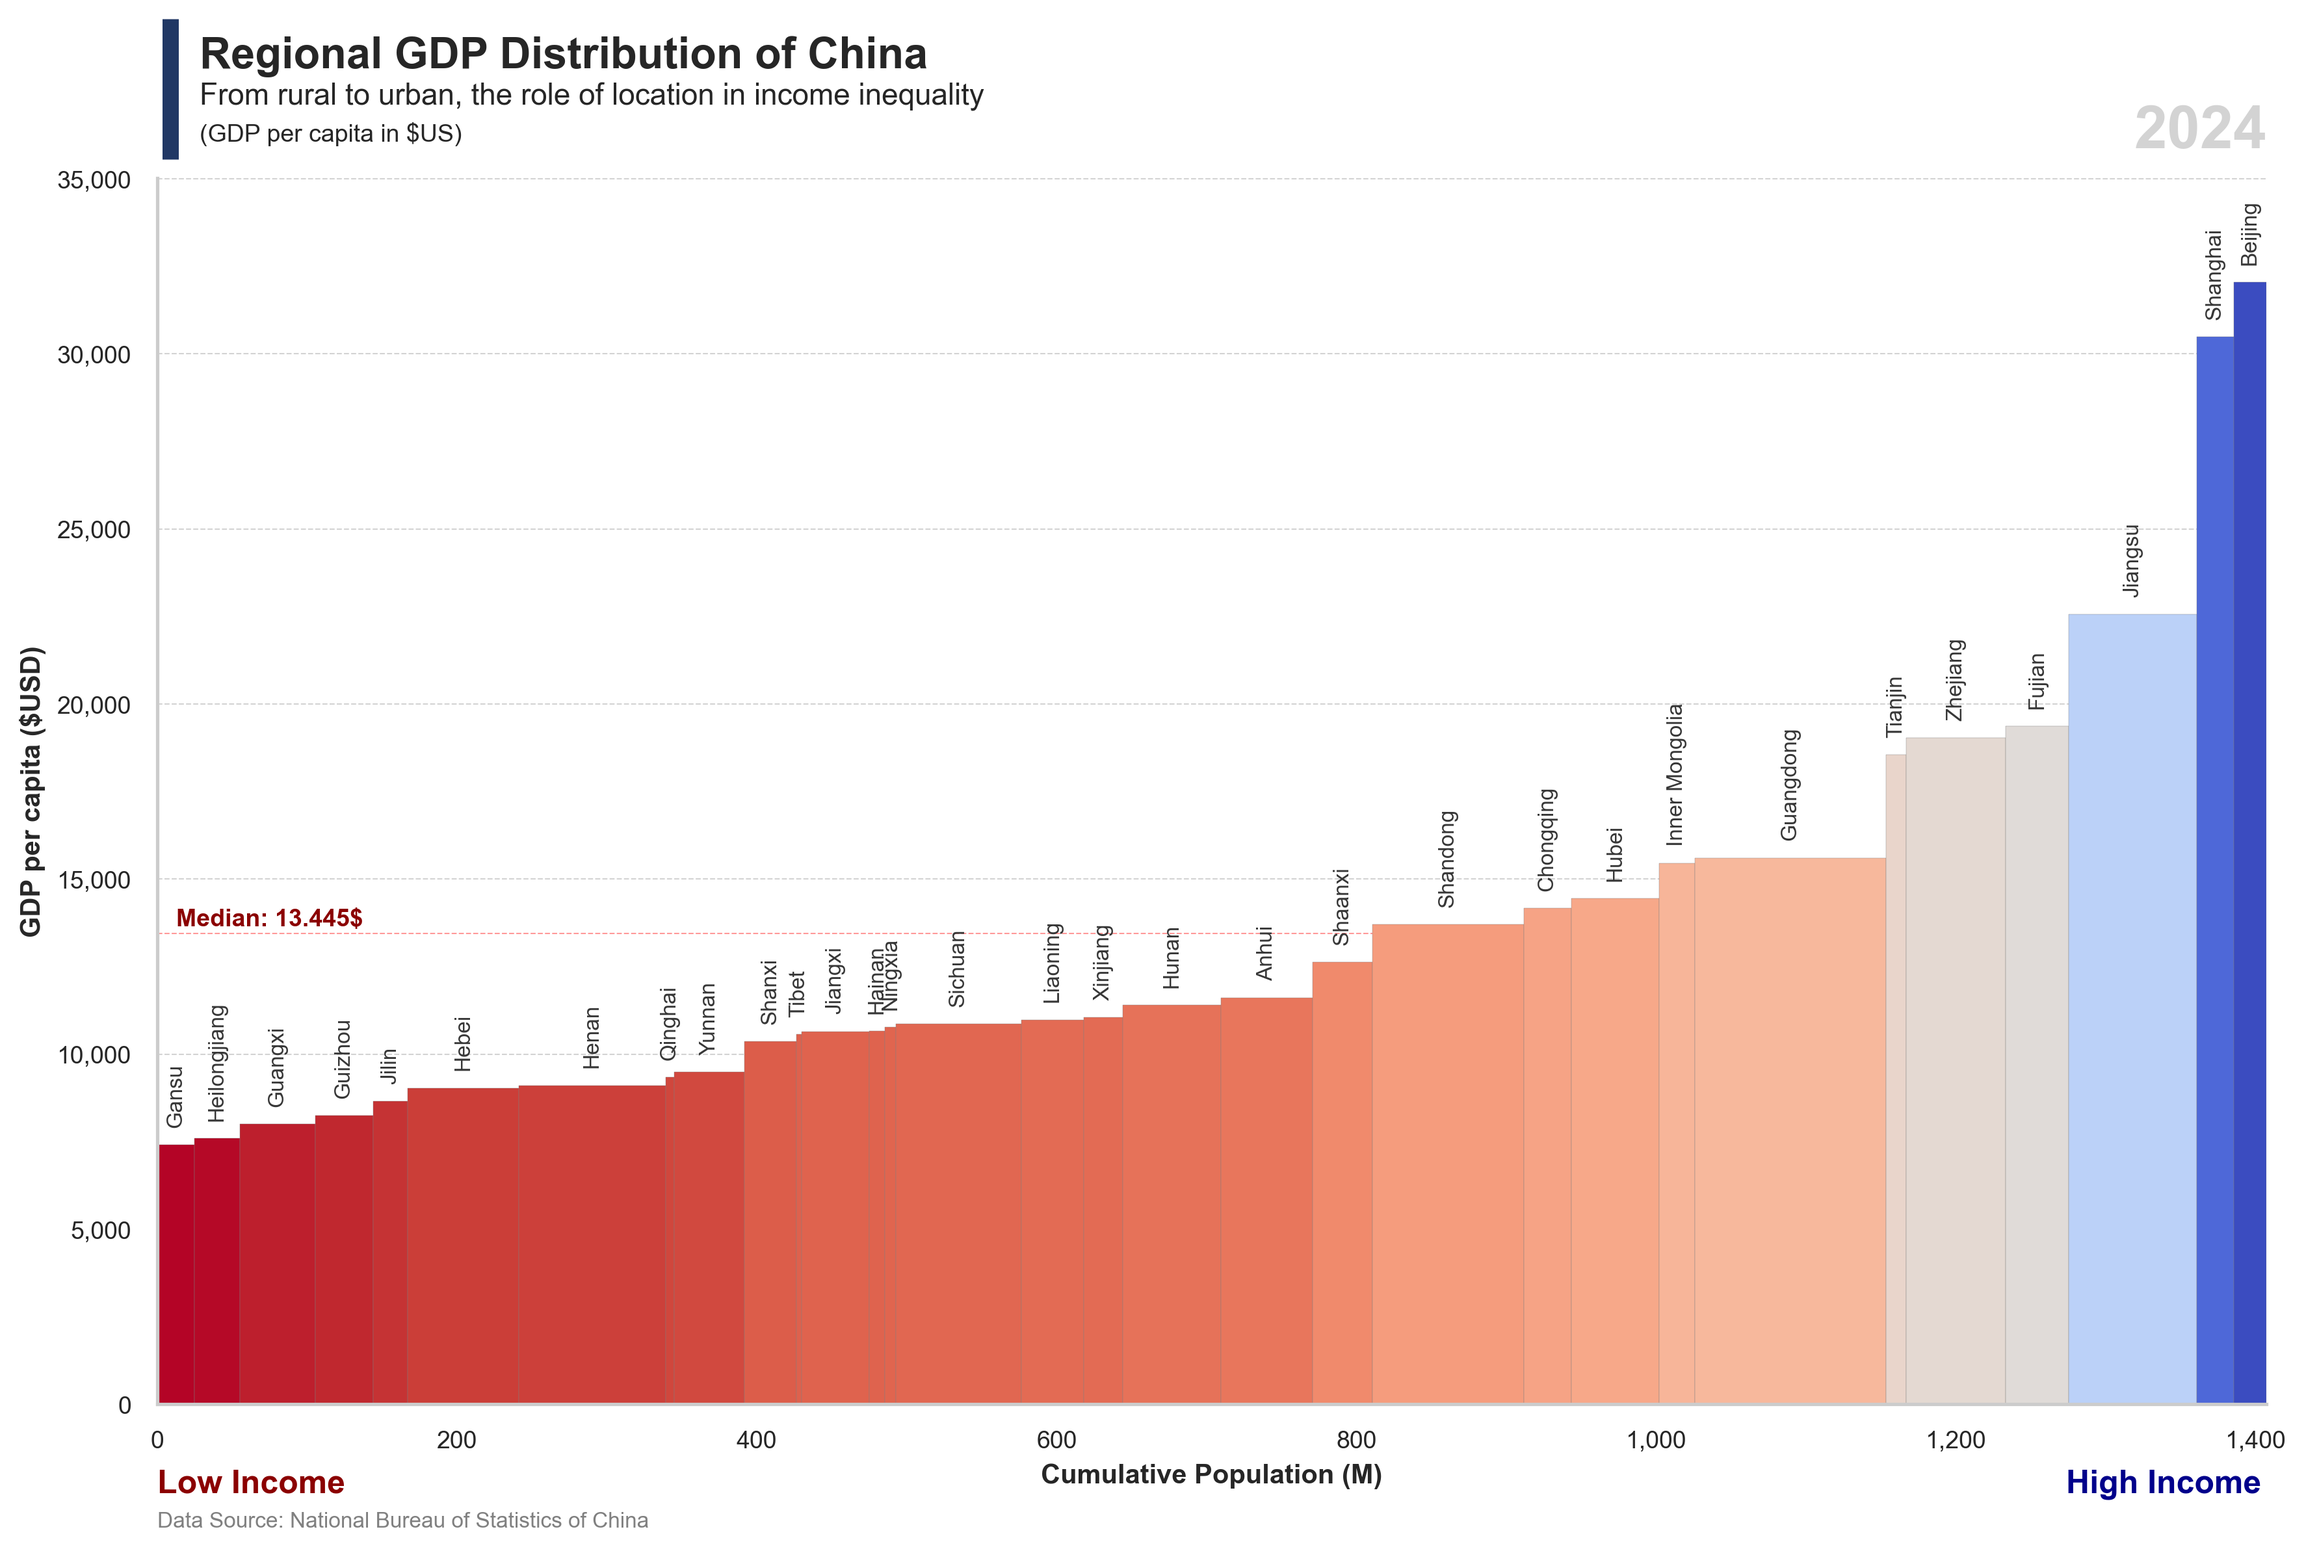
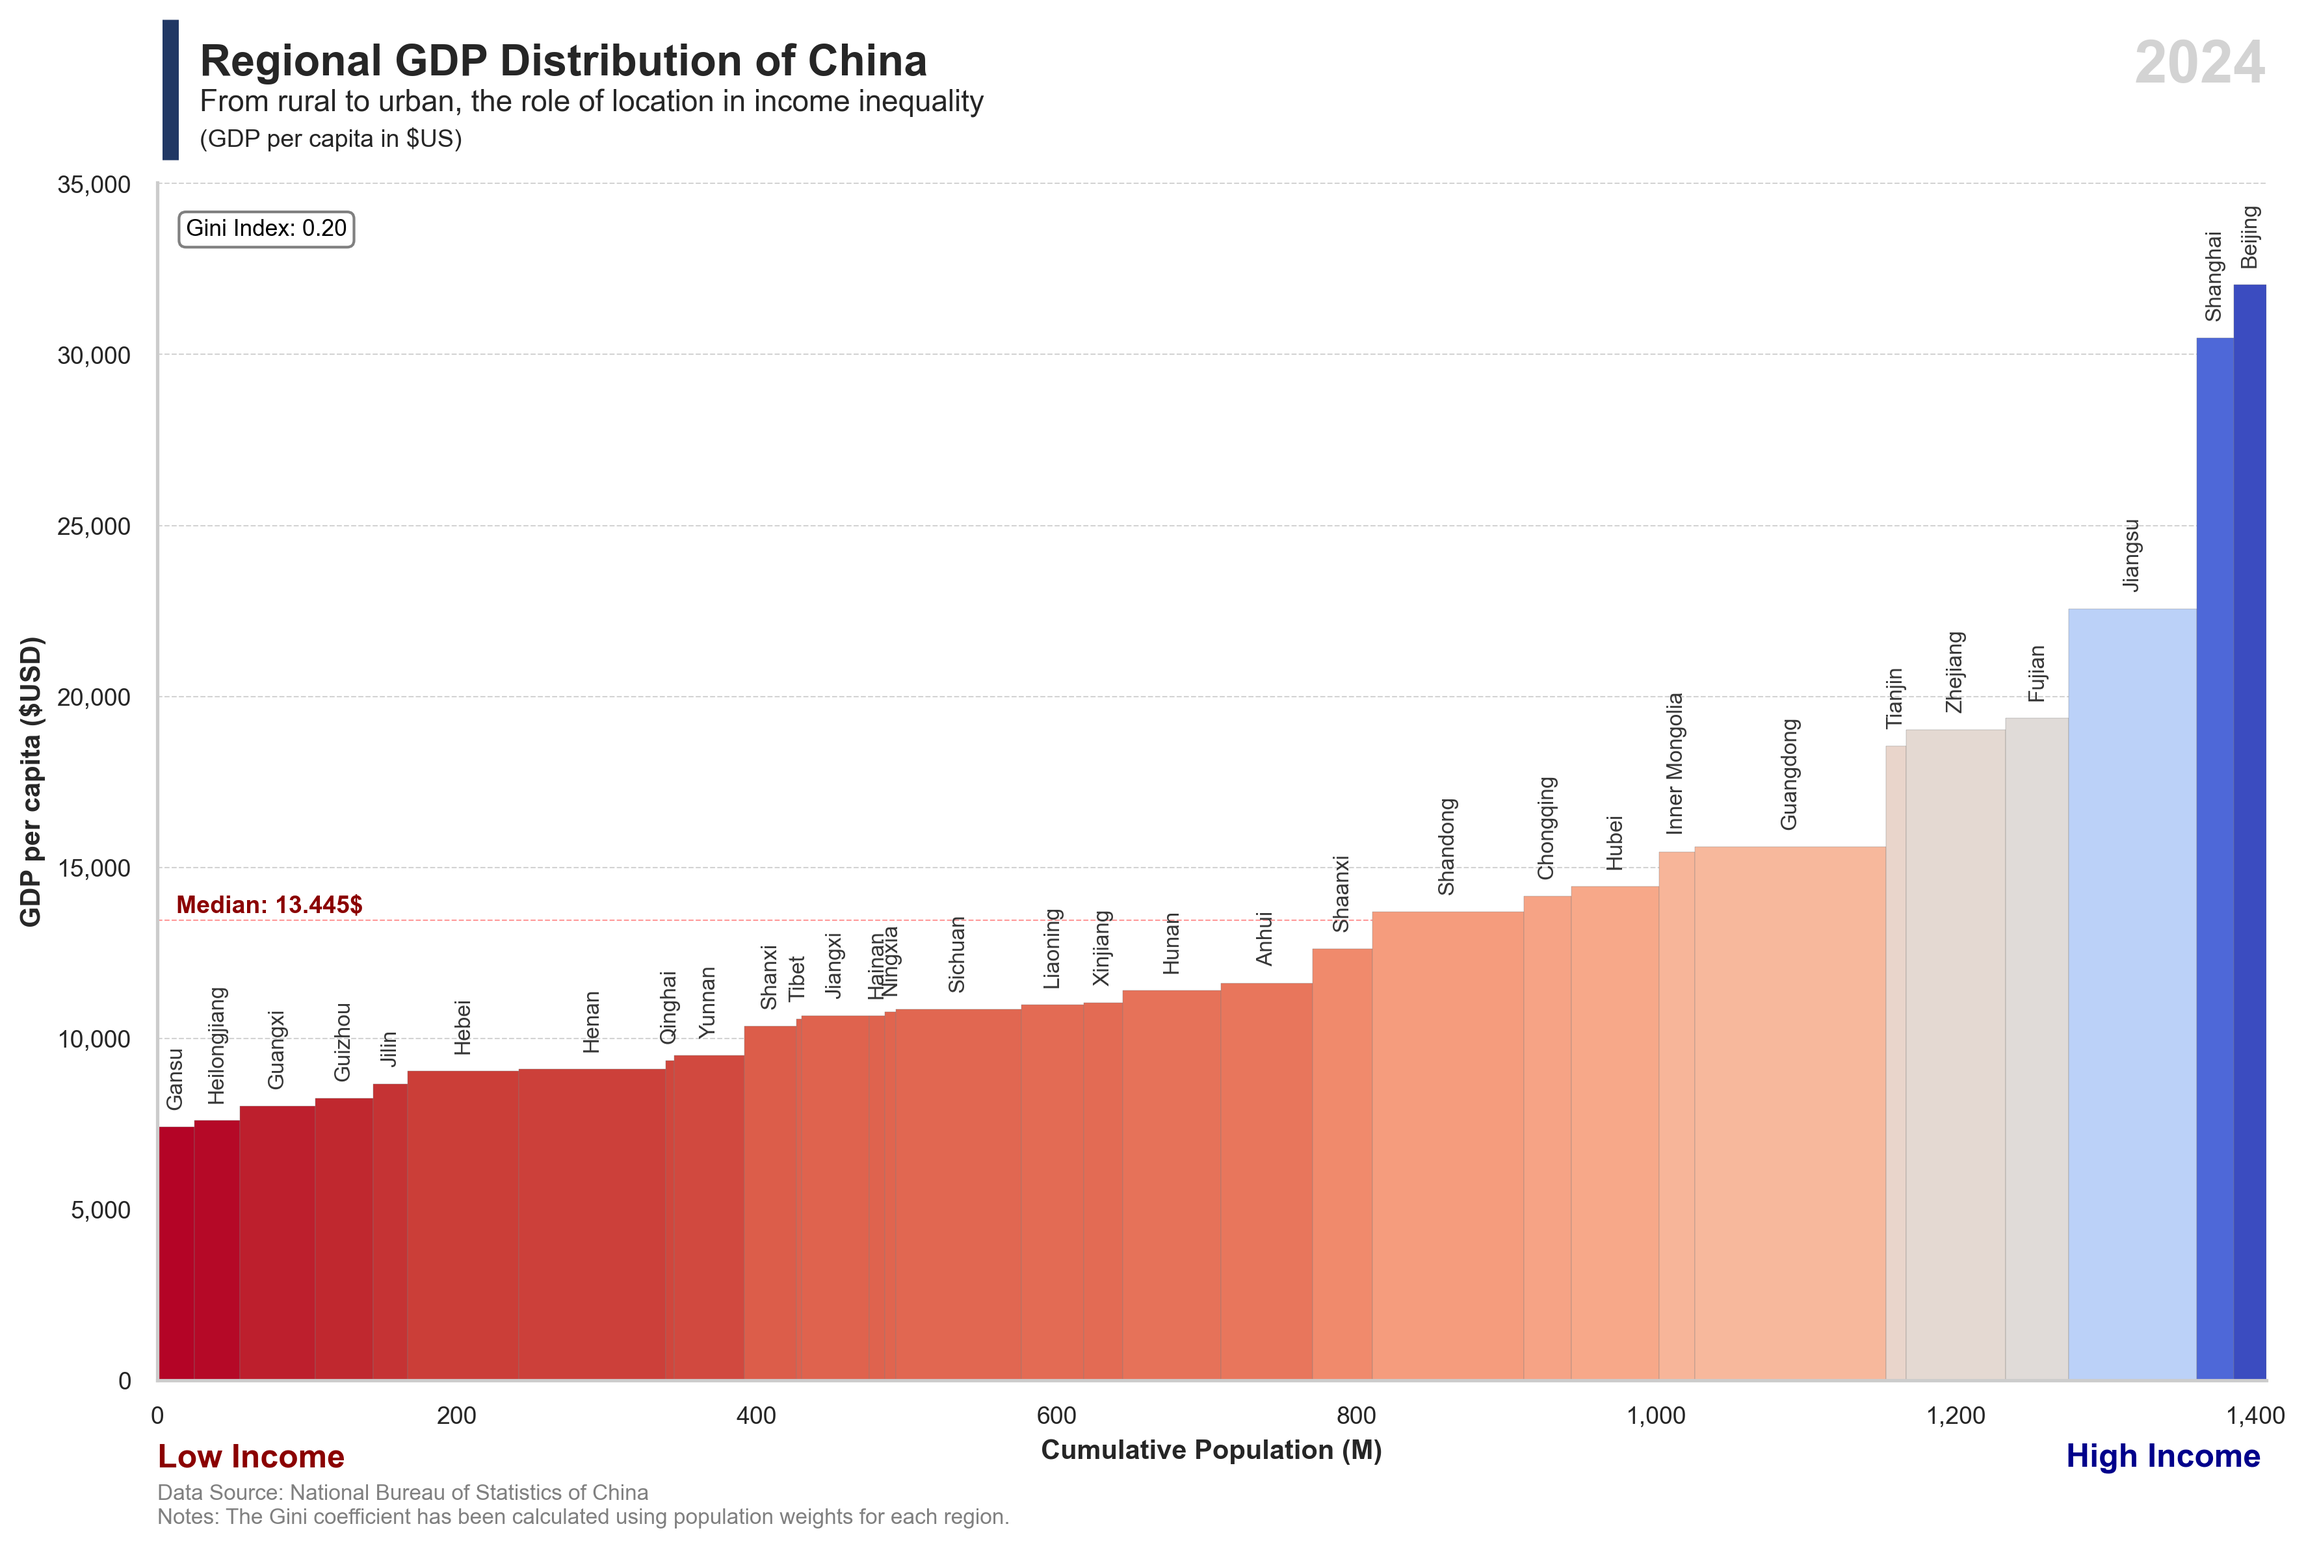
china spain and usa region

diff --git a/Python/Finance/Economy/FIG_INE_Region_Distribution_Spain.py b/Python/Finance/Economy/FIG_INE_Region_Distribution_Spain.py
@@ -7,22 +7,41 @@ import matplotlib.pyplot as plt
 import matplotlib.ticker as ticker
 import os
 
-# Data (China) 
+# Data (Spain) 
 # =====================================================================
 # Read wikipedia data
-url = "https://en.wikipedia.org/wiki/List_of_Chinese_provincial-level_divisions_by_GDP_per_capita"
+url = "https://es.wikipedia.org/wiki/Anexo:Provincias_de_Espa%C3%B1a_por_PIB"
 tables = pd.read_html(url)
-df = tables[2]
-df.columns = ['region', 'gdpc_cny', 'gdpc_usd', 'share', 'gdp_cny', 'population', 'delete']
-df = df.iloc[0:].reset_index(drop=True)
 
-# Data Manipulation
+# population
+dfp = tables[2]
+dfp.columns = ['number', 'region', '2', '3', '4', '5', '6', '7', 'population', '9']
+dfp = dfp.iloc[1:].reset_index(drop=True)
+dfp =  dfp[['region', 'population']]
+dfp = dfp.iloc[:-1]
+dfp['population'] = (
+    dfp['population']
+    .astype(str)
+    .str.replace('.', '', regex=False)
+    .str.replace(',', '.', regex=False)
+)
+dfp['population'] = pd.to_numeric(dfp['population'], errors='coerce') / 1000000
+
+# gdp capita
+dfg = tables[3]
+dfg.columns = ['number', 'region', '2', '3', '4', '5', '6', '7', 'gdpc', '9']
+dfg = dfg.iloc[1:].reset_index(drop=True)
+dfg =  dfg[['region', 'gdpc']]
+dfg = dfg.iloc[:-1]
+dfg['gdpc'] = pd.to_numeric(dfg['gdpc'], errors='coerce') * 1000
+
+# Data (Manipulation) 
 # =====================================================================
+# Merging dataframes
+df = pd.merge(dfp, dfg, on='region', how='left')
+
 # Select columns and solve names
-df =  df[['region', 'gdpc_usd', 'population']]
-df['gdpc'] = df['gdpc_usd']
-df['population'] = df['population'] / 1000
-df['region'] = df['region'].str.replace(r'\[\d+\]', '', regex=True)
+df =  df[['region', 'gdpc', 'population']]
 
 # Order dataframe
 df = df.sort_values(by=['gdpc'])
@@ -63,54 +82,57 @@ bars = plt.bar(df['left'], df['gdpc'], width=df['population'],
 
 # Title
 fig.add_artist(plt.Line2D([0.08, 0.08], [0.90, 0.99], linewidth=6, color='#203764', solid_capstyle='butt'))
-ax.text(0.02, 1.09, f'Regional GDP Distribution of China', fontsize=16, fontweight='bold', ha='left', transform=plt.gca().transAxes)
-ax.text(0.02, 1.06, f'From rural to urban, the role of location in income inequality', fontsize=11, color='#262626', ha='left', transform=plt.gca().transAxes)
-ax.text(0.02, 1.03, f'(GDP per capita in $US)', fontsize=9, color='#262626', ha='left', transform=plt.gca().transAxes)
+ax.text(0.02, 1.09, f'Distribución regional del PIB en España ', fontsize=16, fontweight='bold', ha='left', transform=plt.gca().transAxes)
+ax.text(0.02, 1.06, f'De lo rural a lo urbano: la influencia de la localización en la transformación económica', fontsize=11, color='#262626', ha='left', transform=plt.gca().transAxes)
+ax.text(0.02, 1.03, f'(PIB Capita en euros €)', fontsize=9, color='#262626', ha='left', transform=plt.gca().transAxes)
 
 # Configuration grid and labels
 ax.set_xlim(0, df['population_cum'].max()) 
-ax.set_ylim(0, df['gdpc'].max() * 1.093)
-ax.set_xlabel('Cumulative Population (M)', fontsize=10, fontweight='bold')
-ax.set_ylabel('GDP per capita ($USD)', fontsize=10, fontweight='bold')
+ax.set_ylim(0, 45000)
+ax.set_xlabel('Población Acumulada (M)', fontsize=10, fontweight='bold')
+ax.set_ylabel('PIB Capita €', fontsize=10, fontweight='bold')
 ax.grid(axis='x')
 ax.grid(axis='y', linestyle='--', linewidth=0.5, color='lightgray')
 ax.tick_params(axis='x', labelsize=9)
-ax.tick_params(axis='y', labelsize=9) 
+ax.tick_params(axis='y', labelsize=9)
+ax.set_xticks([0 + (df['population_cum'].max() - 0) * i / 5 for i in range(6)]) 
 ax.yaxis.set_major_formatter(ticker.FuncFormatter(lambda x, _: f'{int(x):,}'))
 ax.xaxis.set_major_formatter(ticker.FuncFormatter(lambda x, _: f'{int(x):,}'))
 ax.spines['top'].set_visible(False)
 ax.spines['right'].set_visible(False)
-ax.axhline(y=13445, color='red', linestyle='--', linewidth=0.5, zorder=0, alpha=0.4)
-ax.text(75, 13445 + 100, "Median: 13.445$", color='darkred', fontweight='bold', fontsize=9, ha='center', va='bottom', zorder=2)
+ax.axhline(y=28333, color='red', linestyle='--', linewidth=0.5, zorder=0, alpha=0.4)
+ax.text(3, 28333 + 100, "Promedio: 28.333$", color='darkred', fontweight='bold', fontsize=9, ha='center', va='bottom', zorder=2)
 
-# Add text each region
+# Add text each region except Ávila and Segovia
 for i, bar in enumerate(bars):
     region_name = df['region'].iloc[i]
-    x = bar.get_x() + bar.get_width() / 2
-    y = bar.get_height()
     
-    ax.text(
-        x, y + 500,
-        region_name,
-        ha='center', va='bottom', color='#363636', fontsize=8, rotation=90,
-
-    )
+    # Excluir las regiones de Ávila y Segovia
+    if region_name not in ['Ávila', 'Ceuta', 'Segovia', 'Cuenca', 'Teruel', 'Soria']:
+        x = bar.get_x() + bar.get_width() / 2
+        y = bar.get_height()
+        
+        ax.text(
+            x, y + 500,
+            region_name,
+            ha='center', va='bottom', color='#363636', fontsize=7, rotation=90,
+        )
 
 # Add Year label 
-ax.text(1, 1.12, f'2024',
+ax.text(1, 1.12, f'2022',
              transform=plt.gca().transAxes,
              fontsize=22, ha='right', va='top',
              fontweight='bold', color='#D3D3D3')
     
 # Add Data Source
-ax.text(0, -0.1, 'Data Source: National Bureau of Statistics of China', 
+ax.text(0, -0.1, 'Fuente: Instituto Nacional Estadística (INE)', 
             transform=plt.gca().transAxes, 
             fontsize=8, 
             color='gray')
 
 # Show GINI Index
 ax.text(
-    0.09, 0.97, f"Gini Index: {gini_index:.2f}", 
+    0.09, 0.97, f"Índice Gini: {gini_index:.2f}", 
     transform=ax.transAxes,
     fontsize=8.5,
     color='black',
@@ -120,16 +142,16 @@ ax.text(
 )
 
 # Add Gini Index
-ax.text(0, -0.12, 'Notes: The Gini coefficient has been calculated using population weights for each region.', 
+ax.text(0, -0.12, 'Notes: El coeficiente de Gini ha sido calculado utilizando los pesos de población para cada província.', 
             transform=plt.gca().transAxes, 
             fontsize=8, 
             color='gray')
 
 # Add label "poorest" and "richest"
-ax.text(0, -0.065, 'Low Income',
+ax.text(0, -0.065, 'Renta Baja',
              transform=ax.transAxes,
              fontsize=12, fontweight='bold', color='darkred', ha='left', va='center')
-ax.text(0.905, -0.065, 'High Income',
+ax.text(0.915, -0.065, 'Renta Alta',
              transform=ax.transAxes,
              fontsize=12, fontweight='bold', color='darkblue', va='center')
 
@@ -138,8 +160,9 @@ plt.tight_layout()
 
 # Save it...
 download_folder = os.path.join(os.path.expanduser("~"), "Downloads")
-filename = os.path.join(download_folder, f"FIG_BUREAU_Region_Distribution_China.png")
+filename = os.path.join(download_folder, f"FIG_INE_Region_Distribution_Spain.png")
 plt.savefig(filename, dpi=300, bbox_inches='tight')
 
 # Show :)
 plt.show()
+

diff --git a/Python/Finance/Economy/FIG_BUREAU_Region_Distribution_USA.py b/Python/Finance/Economy/FIG_BUREAU_Region_Distribution_USA.py
@@ -5,24 +5,27 @@ import numpy as np
 import seaborn as sns
 import matplotlib.pyplot as plt
 import matplotlib.ticker as ticker
+import matplotlib.patches as patches
 import os
 
-# Data (China) 
+# Data (USA) 
 # =====================================================================
 # Read wikipedia data
-url = "https://en.wikipedia.org/wiki/List_of_Chinese_provincial-level_divisions_by_GDP_per_capita"
+url = "https://en.wikipedia.org/wiki/List_of_U.S._states_and_territories_by_GDP"
 tables = pd.read_html(url)
-df = tables[2]
-df.columns = ['region', 'gdpc_cny', 'gdpc_usd', 'share', 'gdp_cny', 'population', 'delete']
-df = df.iloc[0:].reset_index(drop=True)
 
-# Data Manipulation
+# population
+df = tables[0]
+df.columns = ['region', '2', 'gdp', '4', '5', '6', '7', 'gdpc', '9', '10']
+df = df.iloc[0:].reset_index(drop=True)
+df = df.iloc[:-1]
+df['gdpc'] = df['gdpc'].replace({'\$': '', ',': ''}, regex=True).astype(float)
+df['population'] = df['gdp'] / df['gdpc']
+
+# Data (Manipulation) 
 # =====================================================================
 # Select columns and solve names
-df =  df[['region', 'gdpc_usd', 'population']]
-df['gdpc'] = df['gdpc_usd']
-df['population'] = df['population'] / 1000
-df['region'] = df['region'].str.replace(r'\[\d+\]', '', regex=True)
+df =  df[['region', 'gdpc', 'population']]
 
 # Order dataframe
 df = df.sort_values(by=['gdpc'])
@@ -54,7 +57,7 @@ sns.set(style="whitegrid")
 fig, ax = plt.subplots(figsize=(12, 8))
 
 # Create a palette
-norm = plt.Normalize(df["gdpc"].min(), df["gdpc"].max())
+norm = plt.Normalize(df["gdpc"].min(), 120000)
 colors = plt.cm.coolwarm_r(norm(df["gdpc"]))
 
 # Create a Matplotlib plot
@@ -63,38 +66,57 @@ bars = plt.bar(df['left'], df['gdpc'], width=df['population'],
 
 # Title
 fig.add_artist(plt.Line2D([0.08, 0.08], [0.90, 0.99], linewidth=6, color='#203764', solid_capstyle='butt'))
-ax.text(0.02, 1.09, f'Regional GDP Distribution of China', fontsize=16, fontweight='bold', ha='left', transform=plt.gca().transAxes)
+ax.text(0.02, 1.09, f'Regional GDP Distribution of USA', fontsize=16, fontweight='bold', ha='left', transform=plt.gca().transAxes)
 ax.text(0.02, 1.06, f'From rural to urban, the role of location in income inequality', fontsize=11, color='#262626', ha='left', transform=plt.gca().transAxes)
 ax.text(0.02, 1.03, f'(GDP per capita in $US)', fontsize=9, color='#262626', ha='left', transform=plt.gca().transAxes)
 
 # Configuration grid and labels
 ax.set_xlim(0, df['population_cum'].max()) 
-ax.set_ylim(0, df['gdpc'].max() * 1.093)
+ax.set_ylim(0, 160000)
 ax.set_xlabel('Cumulative Population (M)', fontsize=10, fontweight='bold')
 ax.set_ylabel('GDP per capita ($USD)', fontsize=10, fontweight='bold')
 ax.grid(axis='x')
 ax.grid(axis='y', linestyle='--', linewidth=0.5, color='lightgray')
 ax.tick_params(axis='x', labelsize=9)
-ax.tick_params(axis='y', labelsize=9) 
+ax.tick_params(axis='y', labelsize=9)
+xticks_values = [0 + (df['population_cum'].max() - 0) * i / 5 for i in range(6)]
+xticks_rounded = [int(np.round(value, -1)) for value in xticks_values]
+ax.set_xticks(xticks_rounded)
 ax.yaxis.set_major_formatter(ticker.FuncFormatter(lambda x, _: f'{int(x):,}'))
 ax.xaxis.set_major_formatter(ticker.FuncFormatter(lambda x, _: f'{int(x):,}'))
 ax.spines['top'].set_visible(False)
 ax.spines['right'].set_visible(False)
-ax.axhline(y=13445, color='red', linestyle='--', linewidth=0.5, zorder=0, alpha=0.4)
-ax.text(75, 13445 + 100, "Median: 13.445$", color='darkred', fontweight='bold', fontsize=9, ha='center', va='bottom', zorder=2)
+ax.axhline(y=85810, color='red', linestyle='--', linewidth=0.5, zorder=0, alpha=0.4)
+ax.text(20, 85810 + 100, "Median: 85.810$", color='darkred', fontweight='bold', fontsize=9, ha='center', va='bottom', zorder=2)
 
-# Add text each region
+# Y Axis modify the outlier value
+def format_func(x):
+    return f"{x:,.0f}"
+labels = [item.get_text() for item in ax.get_yticklabels()]
+labels[-1] = format_func(260000)
+ax.set_yticklabels(labels)
+
+# Lines and area to separate outliers
+area100 = 148000
+area99 = 146000
+ax.axhline(y=area100, color='black', linestyle='--', linewidth=0.5, zorder=4)
+ax.axhline(y=area99, color='black', linestyle='--', linewidth=0.5, zorder=4)
+ax.add_patch(patches.Rectangle((0, area99), 1000, area100-area99, linewidth=0, edgecolor='none', facecolor='white', zorder=3))
+
+# Add text each region except Ávila and Segovia
 for i, bar in enumerate(bars):
     region_name = df['region'].iloc[i]
-    x = bar.get_x() + bar.get_width() / 2
-    y = bar.get_height()
     
-    ax.text(
-        x, y + 500,
-        region_name,
-        ha='center', va='bottom', color='#363636', fontsize=8, rotation=90,
-
-    )
+    # Excluir las regiones de Ávila y Segovia
+    if region_name not in ['District of Columbia', 'Montana', 'South Dakota', 'Alaska', 'North Dakota']:
+        x = bar.get_x() + bar.get_width() / 2
+        y = bar.get_height()
+        
+        ax.text(
+            x, y + 1000,
+            region_name,
+            ha='center', va='bottom', color='#363636', fontsize=7, rotation=90,
+        )
 
 # Add Year label 
 ax.text(1, 1.12, f'2024',
@@ -103,7 +125,7 @@ ax.text(1, 1.12, f'2024',
              fontweight='bold', color='#D3D3D3')
     
 # Add Data Source
-ax.text(0, -0.1, 'Data Source: National Bureau of Statistics of China', 
+ax.text(0, -0.1, 'Data Source: Bureau of Economic Analysis (BEA)', 
             transform=plt.gca().transAxes, 
             fontsize=8, 
             color='gray')
@@ -138,7 +160,7 @@ plt.tight_layout()
 
 # Save it...
 download_folder = os.path.join(os.path.expanduser("~"), "Downloads")
-filename = os.path.join(download_folder, f"FIG_BUREAU_Region_Distribution_China.png")
+filename = os.path.join(download_folder, f"FIG_BUREAU_Region_Distribution_USA.png")
 plt.savefig(filename, dpi=300, bbox_inches='tight')
 
 # Show :)
